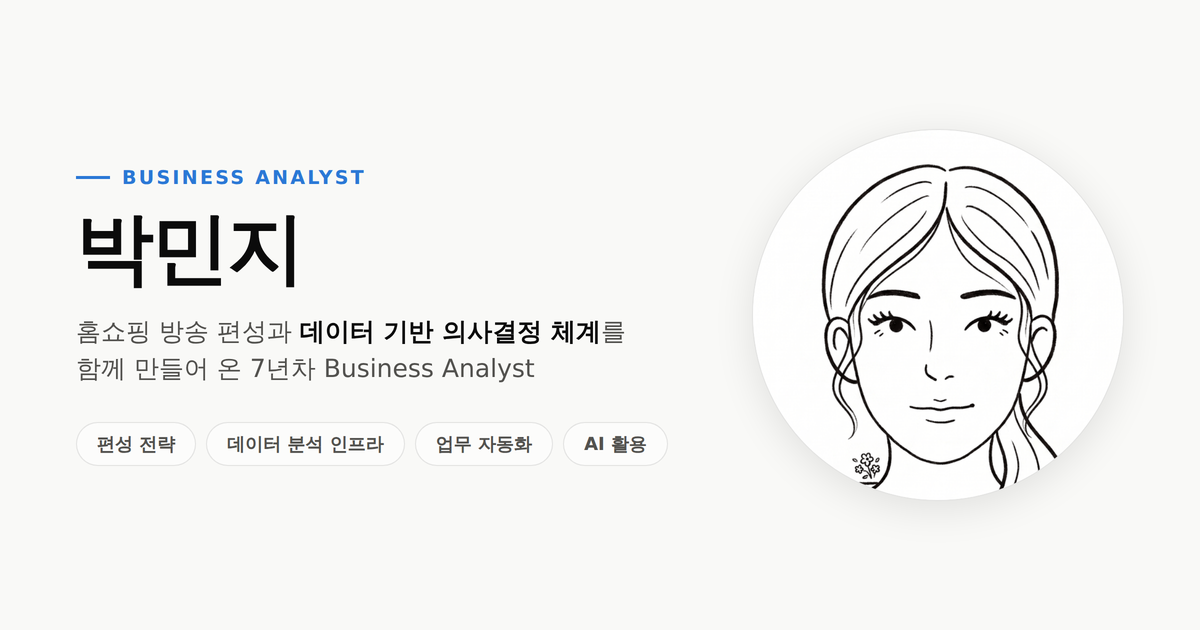
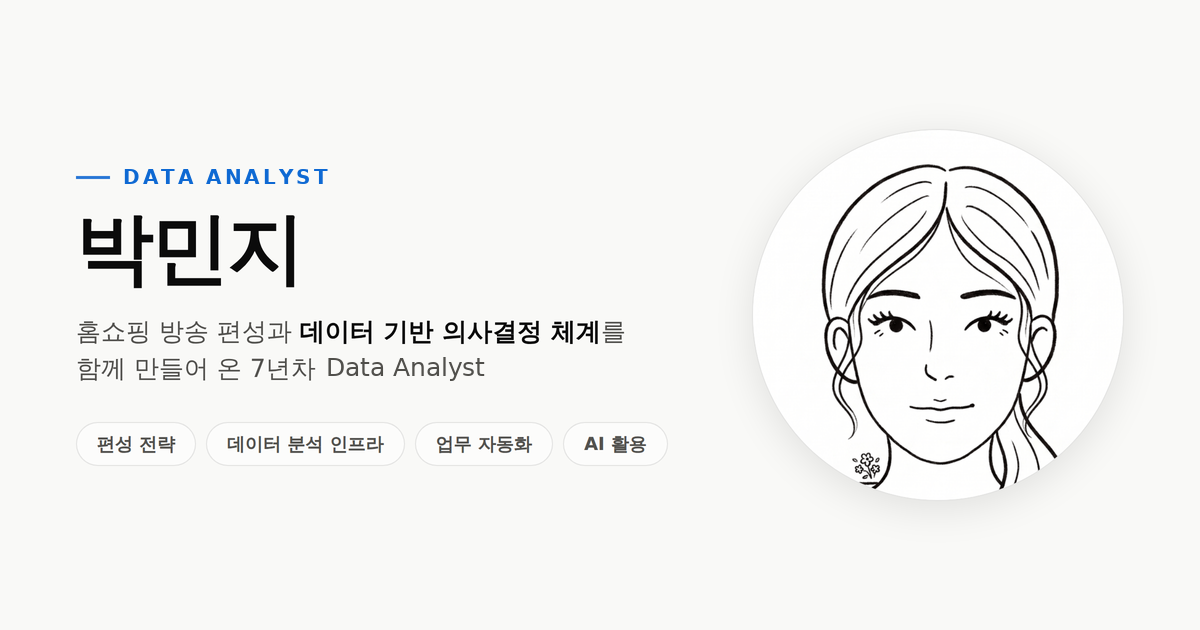
수정

Changed region(s): [[0.2467, 0.573, 0.4625, 0.6032], [0.0925, 0.2714, 0.3083, 0.3016]]

diff --git a/index.html b/index.html
@@ -11,8 +11,8 @@
 </script>
 <meta charset="utf-8">
 <meta name="viewport" content="width=device-width, initial-scale=1">
-<title>박민지 · Business Analyst — Portfolio</title>
-<meta name="description" content="홈쇼핑 업계 Business Analyst 박민지의 포트폴리오. 방송 편성 전략, 데이터 분석 인프라 구축, 업무 자동화 프로젝트를 소개합니다.">
+<title>박민지 · Data Analyst — Portfolio</title>
+<meta name="description" content="홈쇼핑 업계 Data Analyst 박민지의 포트폴리오. 방송 편성 전략, 데이터 분석 인프라 구축, 업무 자동화 프로젝트를 소개합니다.">
 <!-- 검색엔진 노출 차단 — 링크를 직접 받은 사람만 보도록 합니다 (robots.txt 와 함께 적용) -->
 <meta name="robots" content="noindex, nofollow, noarchive, nosnippet">
 <meta name="googlebot" content="noindex, nofollow">
@@ -20,20 +20,20 @@
 
 <!-- 링크 공유 시 보이는 대표 이미지·제목 (카카오톡 · 슬랙 · 링크드인 등) -->
 <meta property="og:type" content="website">
-<meta property="og:site_name" content="박민지 · Business Analyst">
-<meta property="og:title" content="박민지 · Business Analyst — Portfolio">
-<meta property="og:description" content="홈쇼핑 방송 편성과 데이터 기반 의사결정 체계를 함께 만들어 온 Business Analyst 박민지의 포트폴리오.">
+<meta property="og:site_name" content="박민지 · Data Analyst">
+<meta property="og:title" content="박민지 · Data Analyst — Portfolio">
+<meta property="og:description" content="홈쇼핑 방송 편성과 데이터 기반 의사결정 체계를 함께 만들어 온 Data Analyst 박민지의 포트폴리오.">
 <meta property="og:url" content="https://hdmzp.github.io/portfolio2/">
 <meta property="og:image" content="https://hdmzp.github.io/portfolio2/images/og-cover.png">
 <meta property="og:image:secure_url" content="https://hdmzp.github.io/portfolio2/images/og-cover.png">
 <meta property="og:image:type" content="image/png">
 <meta property="og:image:width" content="1200">
 <meta property="og:image:height" content="630">
-<meta property="og:image:alt" content="박민지 · Business Analyst">
+<meta property="og:image:alt" content="박민지 · Data Analyst">
 <meta property="og:locale" content="ko_KR">
 <meta name="twitter:card" content="summary_large_image">
-<meta name="twitter:title" content="박민지 · Business Analyst — Portfolio">
-<meta name="twitter:description" content="홈쇼핑 방송 편성과 데이터 기반 의사결정 체계를 함께 만들어 온 Business Analyst 박민지의 포트폴리오.">
+<meta name="twitter:title" content="박민지 · Data Analyst — Portfolio">
+<meta name="twitter:description" content="홈쇼핑 방송 편성과 데이터 기반 의사결정 체계를 함께 만들어 온 Data Analyst 박민지의 포트폴리오.">
 <meta name="twitter:image" content="https://hdmzp.github.io/portfolio2/images/og-cover.png">
 
 <!-- 브라우저 탭 · 홈 화면에 추가 아이콘 — 프로필 일러스트를 사용합니다 -->

diff --git a/assets/content.js b/assets/content.js
@@ -44,7 +44,7 @@ const SITE = {
   hero: {
     photo: "images/profile.png",   // 파일이 없으면 사진 칸이 사라집니다
     name: "박민지",
-    role: "Business Analyst",
+    role: "Data Analyst",
     lede: "전체 경력 {년차}년차(만 {경력기간}) 데이터 분석가입니다.",
     contact: [
       "mj2040354@gmail.com",
@@ -75,7 +75,7 @@ const SITE = {
   about: {
     label: "ABOUT",
     heading: "자기소개",
-    title: "홈쇼핑 업계의 Business Analyst, 방송 편성 담당자",
+    title: "홈쇼핑 업계의 Data Analyst, 방송 편성 담당자",
     paragraphs: [
       "{년차}년차 홈쇼핑 방송 편성담당자입니다. 현대홈쇼핑은 2개의 TV채널(Live/Data) 및 모바일(Hmall) 플랫폼을 운영하며 <b>TV 채널 매출은 연간 1조 원</b>에 달합니다. 저는 라이브·데이터방송 채널 편성담당자로서 카테고리별 실적 관리와 상품 포트폴리오 조정을 통해 매출 극대화를 추진해 왔습니다.",
       "편성담당자는 단순한 <mark>방송 편성을 넘어 계획 수립, 방송 제작, 프로모션 기획 등 전방위적 운영에 깊이 관여</mark>하며, 홈쇼핑 방송의 길잡이 역할을 수행합니다. 비즈니스 문제를 정의하고 해결 방안을 제시할 뿐 아니라 직접 실행에 옮기는 주체입니다. 상품 생명주기가 짧은 홈쇼핑 유통 환경에서 <mark><b>‘문제 정의 → 데이터 기반 전략 수립 → 실행’</b>의 전 과정</mark>을 경험했으며, 어떤 도메인/조직에서도 빠르게 적응할 수 있는 실무형 역량을 갖추고 있습니다."
@@ -120,7 +120,7 @@ const SITE = {
 
   /* ---------- 맨 아래 ---------- */
   footer: {
-    name: "박민지 · Business Analyst",
+    name: "박민지 · Data Analyst",
     lines: [
       "mj2040354@gmail.com",
       "본 페이지는 개인 포트폴리오이며, 기재된 수치는 실제 업무 성과를 기반으로 작성되었습니다."

diff --git a/assets/style.css b/assets/style.css
@@ -1,5 +1,5 @@
 /* ==========================================================
-   박민지 · Business Analyst — Portfolio
+   박민지 · Data Analyst — Portfolio
    ========================================================== */
 :root {
   color-scheme: light;
